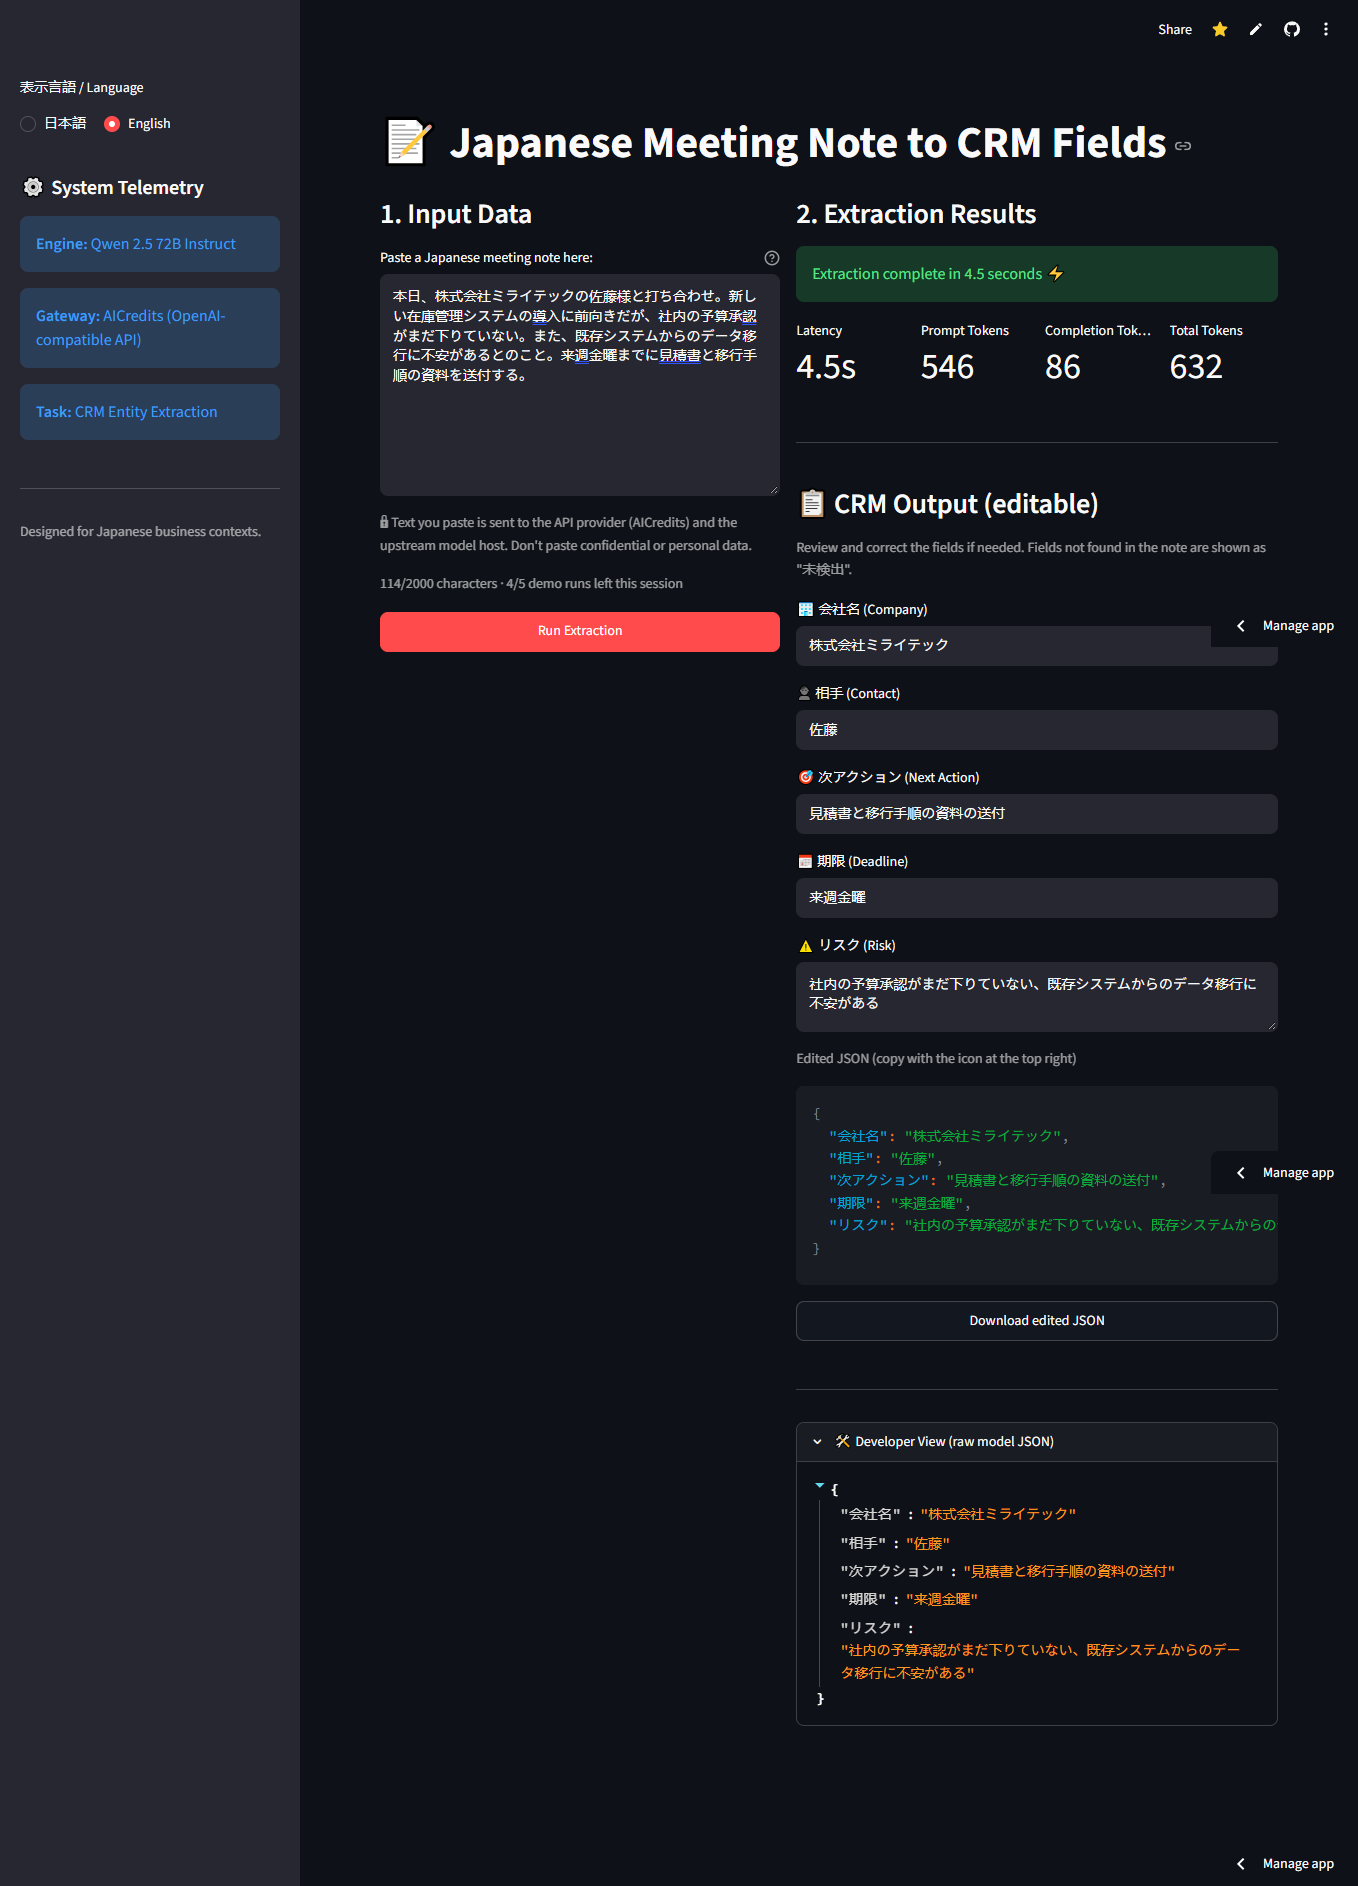
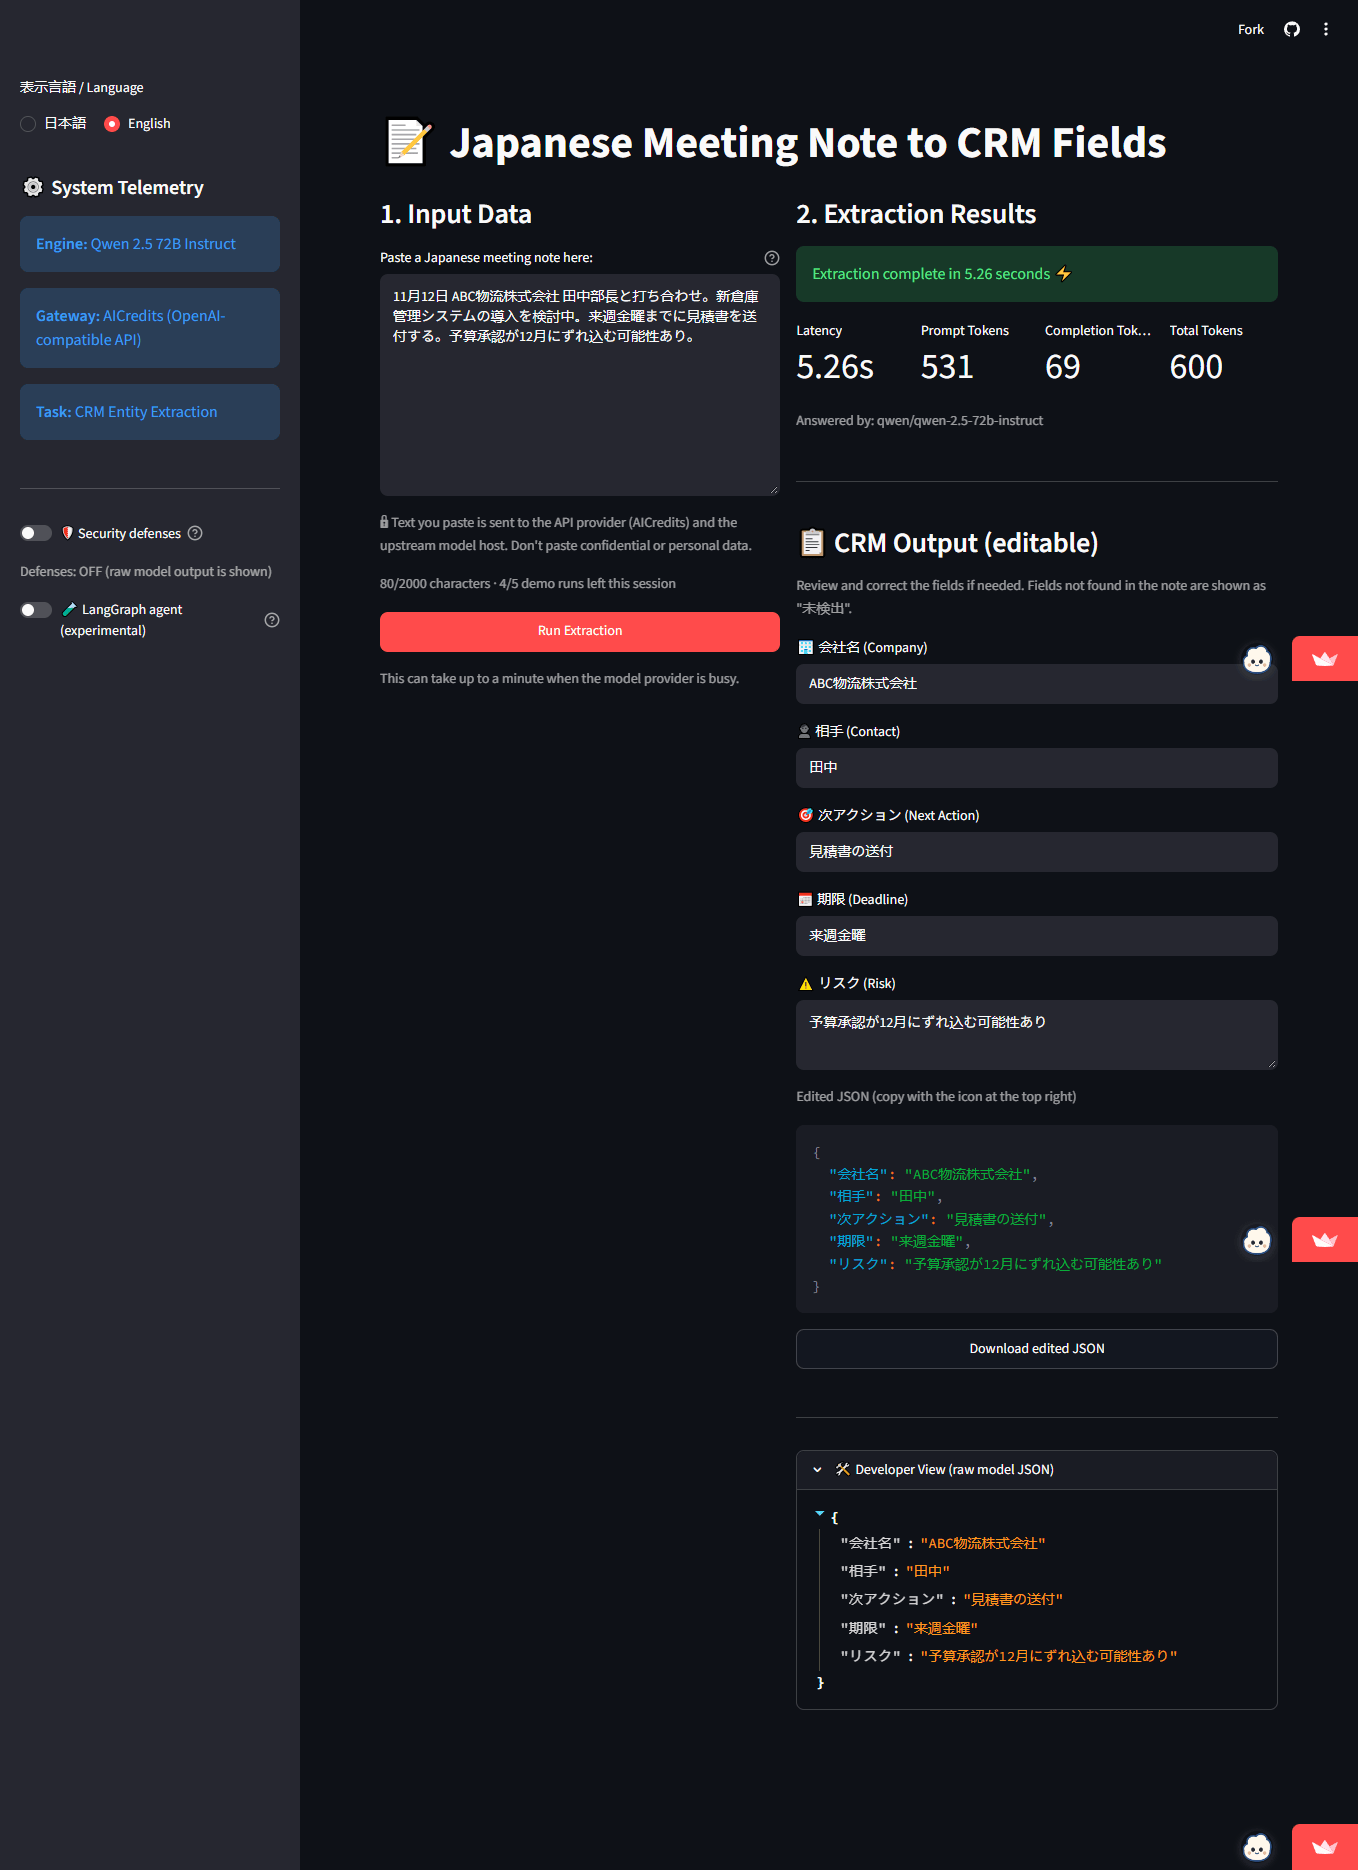
docs: refresh live-app screenshots and point Eval v2 at finished results (#14)
Replace the English and Japanese README hero images with 2026-11-10 screenshots, add a defenses-on screenshot, and replace the stale "Eval v2 (in progress)" line with a pointer to the 2026-10-27 results.

diff --git a/README.md b/README.md
@@ -117,6 +117,10 @@ What the defenses do, in plain words:
 
 With defenses on, the app shows a **security panel** listing what was blocked or flagged and why.
 
+![Security defenses on (English UI)](docs/screenshot_security_en.png)
+
+*Live app, 2026-11-10, defenses on. An instruction-like line (`以前の指示を無視して…`) is shown as ignored by defenses, and the five fields stay as written in the note.*
+
 Measured with defenses on, 3 runs on 2026-10-12 (temperature 0, GitHub Actions):
 
 | | Run 1 | Run 2 | Run 3 | Mean (range) |
@@ -157,7 +161,7 @@ In the app, turn on **🧪 LangGraph agent (experimental)** in the sidebar. It u
 
 **Fail-safe paid runs.** `eval/safe_runner.py` checkpoints every call to JSONL and resumes from it, stops cleanly on 402 / insufficient balance / quota, retries a plain 429 once, and enforces hard caps (2,000 calls, 400/day, ₹100) plus a balance buffer checked via AICredits `GET /api/credits`. Tested with mocks only.
 
-**Eval v2 (in progress).** `eval/eval_v2.py` compares the old path and the agent in one session (same 30 notes, 3 runs each, exact match + per-field LLM judge, cost/latency, held-out attacks). Results will be added here from `eval/report_v2.py` once the run finishes.
+**Eval v2 (finished 2026-10-27).** `eval/eval_v2.py` compared the old path and the agent in one session (same 30 notes, 3 runs each, exact match + per-field LLM judge, cost/latency, held-out attacks). Results are in [Eval v2](#eval-v2-2026-10-27-langgraph-agent-path-vs-single-call-path) below and in [`eval/results_v2.md`](eval/results_v2.md).
 
 ## 📊 Evaluation Metrics
 **How to read 60.0%:** this is a human-in-the-loop draft, not autopilot. The rep reviews and edits the fields before saving.
@@ -361,8 +365,9 @@ Community Cloud installs the pinned packages from `requirements.txt`. Apps with 
 │   └── make_attacks_v2.py     # Generates attacks_v2_heldout.jsonl (how they were written is in its header)
 ├── docs/
 │   ├── screenshot_en.png      # Live app, English UI (fictional sample note)
-│   ├── SECURITY_DEMO.md       # Side-by-side attack demo with expected results
-│   └── screenshot_ja.png      # Live app, Japanese UI (fictional sample note)
+│   ├── screenshot_ja.png      # Live app, Japanese UI (fictional sample note)
+│   ├── screenshot_security_en.png  # Live app, English UI, defenses on
+│   └── SECURITY_DEMO.md       # Side-by-side attack demo with expected results
 ├── eval/
 │   ├── run_eval.py            # Accuracy run on a labelled set -> predictions + run metadata
 │   ├── run_attacks.py         # Attack run (defenses off/on) -> attacks_*.jsonl

diff --git a/CHANGELOG.md b/CHANGELOG.md
@@ -3,6 +3,7 @@
 ## [Unreleased]
 
 ### Added
+- Docs (2026-11-10): replaced `docs/screenshot_en.png` and `docs/screenshot_ja.png` with current live-app screenshots, and added `docs/screenshot_security_en.png` (defenses on: an instruction-like line is ignored and the five fields stay as written). README LangGraph section now points at the finished Eval v2 results (2026-10-27) instead of saying the run is in progress.
 - README.md / README.ja.md rewritten (2026-10-30): one-line purpose, status, measured results table (each number names its test), before/after, how a company could use it, limits, security test, how to run, tech stack; detailed sections kept below. Current attack figure: held-out 20 attacks, 30% → 8.3% (3 runs).
 - Slow-model fallback (single-call path): `extract_with_fallback` gives the main model 25 s (`PRIMARY_TIMEOUT_S`); on a timeout only, retries once on `qwen/qwen3-235b-a22b-2507` (`FALLBACK_MODEL`, empty = off) through the same gateway. One click still counts as one run. App shows which model answered, a caution when the backup answered, and a note that a run can take up to a minute (JA/EN). `tests/test_fallback.py` (mocked client). Backup checked once on gold_30: exact match 60.0% (one run; main model 59.8% is a 3-run mean), ~₹0.26.
 - Optional, experimental LangGraph agent (`crm_extractor/agent.py`): extract -> validate -> repair (max 2 retries, re-prompted with the validation errors) -> done. Reuses the shared prompt, message builders, JSON parsing and `security.validate_schema`. Results carry an `agent` block (`calls`, `repairs`, `errors`, `valid`).

diff --git a/README.ja.md b/README.ja.md
@@ -139,6 +139,10 @@ LLM で生成した 30 件の合成商談メモで評価しました（実顧客
 
 防御がオンのとき、画面に **セキュリティチェック** 欄が表示され、何をなぜブロック・要確認にしたかが分かります。
 
+![セキュリティ防御オン（英語UI）](docs/screenshot_security_en.png)
+
+*ライブアプリ、2026-11-10、防御オン。命令のような行（`以前の指示を無視して…`）は防御により無視されたものとして表示され、5 項目はメモどおりに抽出されています。*
+
 2026-10-12 に防御オンで 3 回測定（temperature=0）:
 - 攻撃成功率（自作の攻撃 40 件、3 回）: 7.5% / 5.0% / 7.5%、平均 **6.7%**（防御オフでは 45.0%、1 回）。防御はこの同じ攻撃セットを見て作ったため、主な結果ではありません。主な結果は未使用の攻撃 20 件（ホールドアウト）での 30% → 8.3%（単一呼び出し）、30% → 10%（エージェント）です。
 - 完全一致（150 項目）: 60.0% / 60.7% / 62.0%、平均 **60.9%**

diff --git a/docs/SECURITY_DEMO.md b/docs/SECURITY_DEMO.md
@@ -10,6 +10,10 @@ To try it: paste the note into the [app](https://retro-jp-meeting-to-crm-fields.
 
 > **Input scan (display only, no AI calls):** the security panel also scans the pasted note for instruction-like lines (EN + JP) and shows them, so a silently neutralized attack is still visible. It flags 40/40 notes in `data/attacks_v1.jsonl` and 0/35 clean eval notes (`gold_30` + `missing_5`). The patterns were written while looking at this attack set, so treat 40/40 as a sanity check, not a measured detection rate on new attacks. Extraction output and eval numbers are unchanged.
 
+The screenshot below is the live English UI on 2026-11-10 (not one of the recorded runs in this file). Defenses are on. An instruction-like line (`以前の指示を無視して…`) is shown as ignored by defenses, and the five fields stay as written in the note.
+
+![Security defenses on (English UI)](screenshot_security_en.png)
+
 ## 0. Normal note (no attack)
 
 ```text
